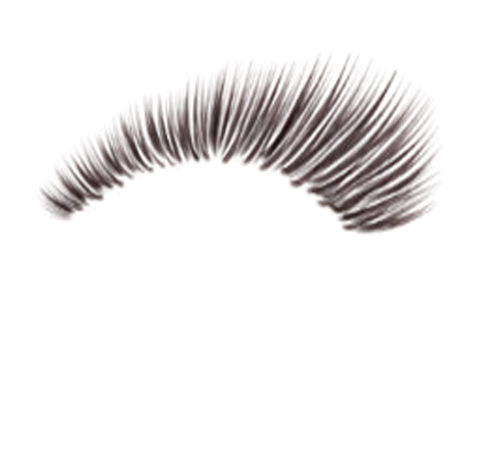
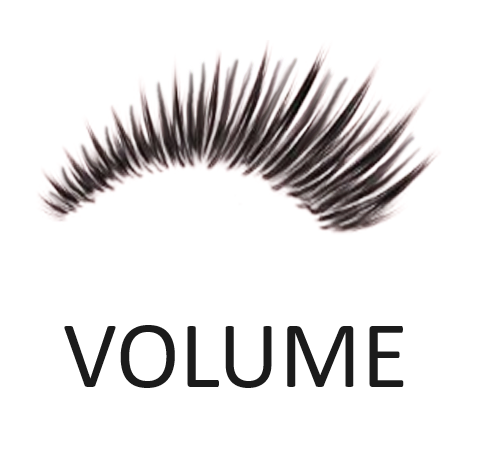
feat: Eye Lashes

Changed region(s): [[0.0877, 0.1186, 0.9061, 0.5042], [0.1169, 0.6822, 0.8476, 0.8305]]

diff --git a/src/settings/data/looks.js b/src/settings/data/looks.js
@@ -59,6 +59,66 @@ export default {
     cover: "assets/looks/hybrid/Eyeliner.png",
     texture: "assets/textures/hybrid/makeup_eyeliner.png",
   },
+  makeup_volume_dolly: {
+    title: "Volume-Dolly",
+    cover: "assets/looks/volume/Dolly.png",
+    texture: "assets/textures/volume/makeup_dolly.png",
+  },
+  makeup_volume_squirrel: {
+    title: "Volume-Squirrel",
+    cover: "assets/looks/volume/Squirrel.png",
+    texture: "assets/textures/volume/makeup_squirrel.png",
+  },
+  makeup_volume_round: {
+    title: "Volume-Round",
+    cover: "assets/looks/volume/Round.png",
+    texture: "assets/textures/volume/makeup_round.png",
+  },
+  makeup_volume_cat: {
+    title: "Volume-Cat",
+    cover: "assets/looks/volume/Cat.png",
+    texture: "assets/textures/volume/makeup_cat.png",
+  },
+  makeup_volume_kimk: {
+    title: "Volume-KIMK",
+    cover: "assets/looks/volume/KIMK.png",
+    texture: "assets/textures/volume/makeup_kimk.png",
+  },
+  makeup_volume_eyeliner: {
+    title: "Volume-Eyeliner",
+    cover: "assets/looks/volume/Eyeliner.png",
+    texture: "assets/textures/volume/makeup_eyeliner.png",
+  },
+  makeup_mega_dolly: {
+    title: "Mega-Dolly",
+    cover: "assets/looks/mega/Dolly.png",
+    texture: "assets/textures/mega/makeup_dolly.png",
+  },
+  makeup_mega_squirrel: {
+    title: "Mega-Squirrel",
+    cover: "assets/looks/mega/Squirrel.png",
+    texture: "assets/textures/mega/makeup_squirrel.png",
+  },
+  makeup_mega_round: {
+    title: "Mega-Round",
+    cover: "assets/looks/mega/Round.png",
+    texture: "assets/textures/mega/makeup_round.png",
+  },
+  makeup_mega_cat: {
+    title: "Mega-Cat",
+    cover: "assets/looks/mega/Cat.png",
+    texture: "assets/textures/mega/makeup_cat.png",
+  },
+  makeup_mega_kimk: {
+    title: "Mega-KIMK",
+    cover: "assets/looks/mega/KIMK.png",
+    texture: "assets/textures/mega/makeup_kimk.png",
+  },
+  makeup_mega_eyeliner: {
+    title: "Mega-Eyeliner",
+    cover: "assets/looks/mega/Eyeliner.png",
+    texture: "assets/textures/mega/makeup_eyeliner.png",
+  },
   // makeup_40s: {
   //   title: "40s",
   //   cover: "assets/looks/40s.jpg",
